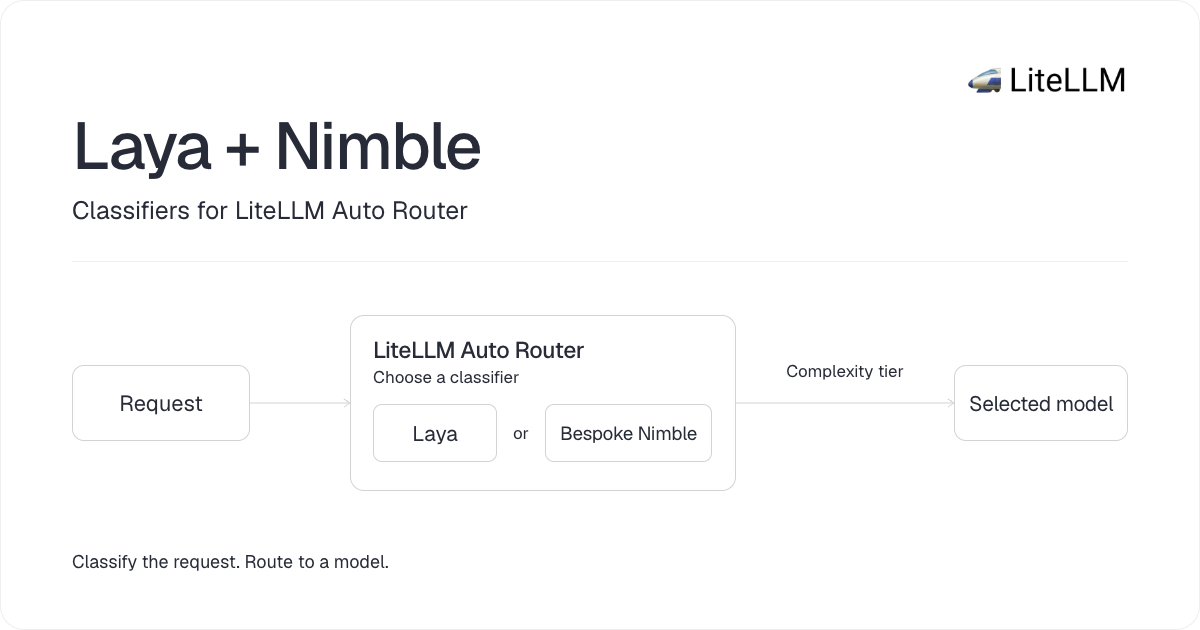
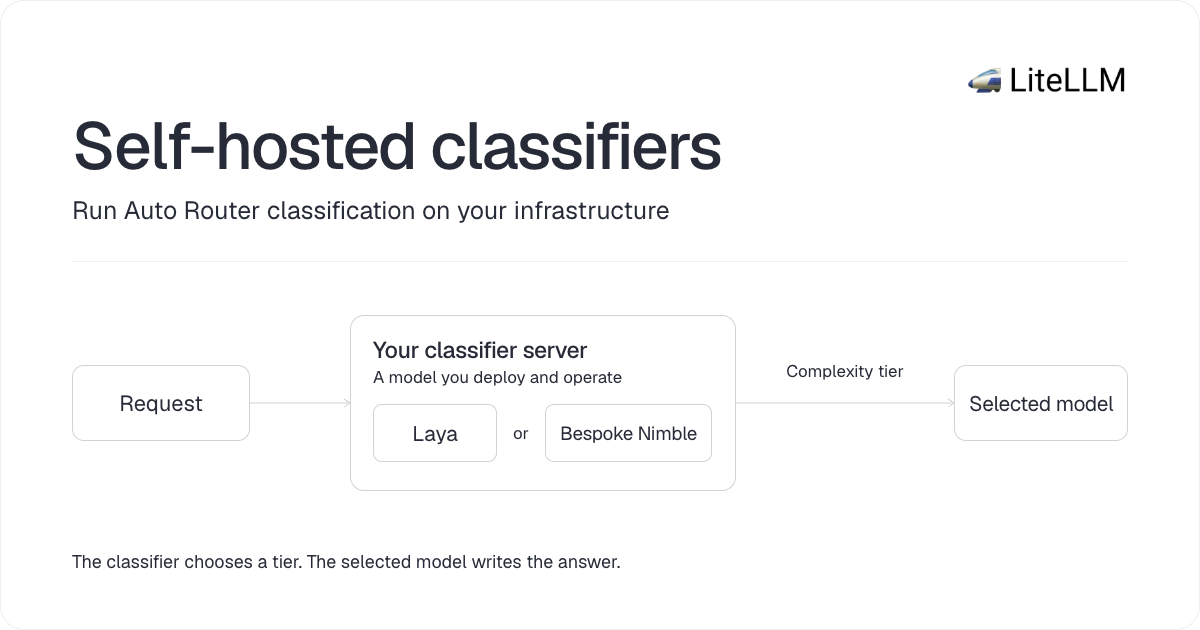
docs: focus classifier launch on self-hosting

Changed region(s): [[0.0617, 0.181, 0.6167, 0.3619], [0.3083, 0.5429, 0.5242, 0.6333], [0.0617, 0.8746, 0.5242, 0.9048]]

diff --git a/docs/auto_router/decision_classifiers.md b/docs/auto_router/decision_classifiers.md
@@ -1,18 +1,38 @@
 ---
-title: OSS classifiers
-sidebar_label: Jev, Nimble and Laya
-description: Configure the Auto Router's OSS Classifier with hosted Jev or self-hosted Nimble and Laya.
+title: Self-hosted classifiers
+sidebar_label: Self-hosted classifiers
+description: Run Auto Router classification on your own infrastructure with Laya or Bespoke Nimble. Configure the server, request context, routing tiers, and fallback behavior.
 ---
 
-Use Jev, Nimble or Laya to choose which model answers each request. The classifier picks a complexity tier; the Auto Router then calls a model configured for that tier. Clients keep using one router model name through the normal chat completions API.
+Run the model that makes your routing decisions on infrastructure you control. Deploy a classifier server, connect it to LiteLLM, and map complexity tiers to your completion models. The classifier chooses a tier for each request; the Auto Router calls a model in that tier to generate the answer. Clients keep using one router model name through the chat completions API.
 
-Jev is available through TypeSafe's hosted API. Nimble and Laya are open models you can run on your own infrastructure. All three use `classifier_type: oss_classifier`, with the provider selected inside `opensource_classifier_config`.
+**Laya and Bespoke Nimble are the supported self-hosted classifier options.** Jev uses TypeSafe's hosted API and shares the same configuration flow. Select **OSS Classifier** in the dashboard, or use `classifier_type: oss_classifier` with a provider inside `opensource_classifier_config`.
+
+## What you host
+
+Deploy the classifier as a separate service reachable from the gateway. LiteLLM calls its HTTP API; selecting a classifier in the dashboard does not install or start its model server.
+
+| Component | Role | Where it runs |
+| --- | --- | --- |
+| LiteLLM gateway | Receives the client request, asks for a tier, then routes the completion | Your gateway deployment |
+| Classifier server | Runs Laya or Nimble inference and returns the tier choice | A server you deploy and operate |
+| Completion model | Generates the answer after routing | Your configured hosted provider or self-hosted model endpoint |
+
+To keep classification traffic inside your network, deploy the classifier there and configure an internal base URL reachable from the gateway. You manage the checkpoint, inference capacity, authentication, and server availability. Self-hosting has compute costs even when the model has no hosted inference fee.
+
+### Request context and data flow
+
+The classifier receives the current user request, selected system text, and any configured prior-turn context, along with the tier criteria. Set `classifier_context_window_size: 0` to omit prior turns; the current request and selected system text still reach the classifier. The YAML example below uses this setting.
+
+The completion model still receives the request needed to generate the answer. Hosting the classifier yourself does not change where that completion runs. See the [classifier context reference](/docs/proxy/auto_routing) for history-window and character-budget settings.
+
+## Choose a classifier
 
 | Classifier | Where it runs | Classifier model | `opensource_classifier_config.provider` |
 | --- | --- | --- | --- |
-| [Jev](https://docs.typesafe.ai/) | TypeSafe's hosted API | `jev-latest` | `jev` |
-| [Bespoke Nimble](https://github.com/bespokelabsai/nimble) | Self-hosted System One server | `nimble-latest`, `nimble` (Ollama) or `bespokelabs/Bespoke-Nimble-9B` | `bespoke` |
 | [Laya](https://github.com/NandhaKishorM/laya) | Self-hosted | `english`, `multilingual` or `typed-decisions` | `laya` |
+| [Bespoke Nimble](https://github.com/bespokelabsai/nimble) | Self-hosted System One server | `nimble-latest`, `nimble` (Ollama) or `bespokelabs/Bespoke-Nimble-9B` | `bespoke` |
+| [Jev](https://docs.typesafe.ai/) | TypeSafe's hosted API | `jev-latest` | `jev` |
 
 All three use the System One decision protocol. LiteLLM sends a `choice` question describing your tiers to `POST /v1/systemone`. Set `api_base` to the server's base URL without `/v1/systemone`; an endpoint that only exposes `/v1/evaluate` or chat completions is not sufficient.
 
@@ -24,16 +44,160 @@ Existing Jev-compatible configurations can keep `classifier_type: jev` and `jev_
 
 :::
 
+## Start a classifier server
+
+Choose one of the self-hosted options below, or use [Jev's hosted API](#jev-hosted-typesafe-api). The local examples run the gateway and classifier on the same machine, in separate processes.
+
+### Laya: self-hosted HTTP server
+
+Install Laya in a separate Python environment from LiteLLM and start its English checkpoint using the [HTTP server](https://github.com/NandhaKishorM/laya/blob/main/docs/http-api.md):
+
+```bash
+python -m venv .venv-laya
+source .venv-laya/bin/activate
+python -m pip install 'laya[serve]==0.3.21'
+LAYA_HOST=127.0.0.1 LAYA_PORT=8000 LAYA_MODELS=english laya-serve
+```
+
+Leave this process running. In another terminal, check liveness:
+
+```bash
+curl --fail-with-body http://127.0.0.1:8000/health
+```
+
+A health response confirms the server is running. Use the [decision request below](#verify-the-classifier-server) to check that inference works too.
+
+In the environment that will run the gateway, set:
+
+```bash
+export LAYA_API_BASE="http://127.0.0.1:8000"
+```
+
+Use this classifier block in the [complete router configuration](#configure-the-router):
+
+```yaml
+opensource_classifier_config:
+  provider: laya
+  model: english
+  timeout_ms: 15000
+```
+
+For another checkpoint, change `LAYA_MODELS` and the router's `model` to `multilingual` or `typed-decisions`. To require bearer authentication, set the same `LAYA_API_KEY` secret in both the server and gateway environments before starting them.
+
+For container deployments, follow Laya's [Docker quickstart](https://github.com/NandhaKishorM/laya/blob/main/docs/docker.md). The [HTTP server reference](https://github.com/NandhaKishorM/laya/blob/main/docs/http-api.md) covers preloading, device selection, and concurrency limits.
+
+### Nimble: self-hosted System One server
+
+Install [Ollama](https://ollama.com/download) 0.35 or later, as required by its [Nimble model](https://ollama.com/library/nimble). If Ollama is not already running, start it in a separate terminal:
+
+```bash
+ollama serve
+```
+
+Leave the server running. In another terminal, download Nimble:
+
+```bash
+ollama pull nimble
+```
+
+In the environment that will run the gateway, set:
+
+```bash
+export BESPOKE_API_BASE="http://127.0.0.1:11434"
+```
+
+Use this classifier block in the [complete router configuration](#configure-the-router):
+
+```yaml
+opensource_classifier_config:
+  provider: bespoke
+  model: nimble
+  timeout_ms: 30000
+```
+
+Ollama exposes Nimble at `/v1/systemone` with the model name `nimble`. Verify it with the [decision request below](#verify-the-classifier-server). `BESPOKE_API_KEY` is unnecessary for local Ollama; setting a gateway key does not enable authentication on the server.
+
+For a GPU deployment on Modal, follow Bespoke's [System One deployment guide](https://github.com/bespokelabsai/nimble/blob/main/docs/MODAL_SERVING.md). Set `BESPOKE_API_BASE` to your deployment's URL and choose the name it serves, such as `nimble-latest` or `bespokelabs/Bespoke-Nimble-9B`. The `bespoke` provider is separate from LiteLLM's Nimble search integration.
+
+The Modal recipe publishes an unauthenticated endpoint by default. Its [private mode](https://github.com/bespokelabsai/nimble/blob/main/deploy/setup_credentials.py) uses `Modal-Key` and `Modal-Secret` headers. LiteLLM's classifier bearer-key setting cannot supply that pair directly; a proxy must handle those headers if you use private mode.
+
+### Connect across hosts or containers
+
+`127.0.0.1` and `localhost` refer to the gateway's own host or container. When the classifier runs elsewhere, use a hostname reachable from the gateway, such as `http://laya-server:8000` or `http://nimble-server:11434` for an Ollama service.
+
+The classifier must also listen on a reachable interface. Set `LAYA_HOST=0.0.0.0` for Laya, or configure Ollama's [`OLLAMA_HOST`](https://docs.ollama.com/faq#how-do-i-configure-ollama-server) before starting its server. Keep the service on your intended private network. If you expose Ollama through a reverse proxy, configure authentication there; Ollama's local API does not enforce the gateway's bearer key.
+
+For a server that accepts bearer authentication, set its matching `LAYA_API_KEY` or `BESPOKE_API_KEY` in the gateway environment. LiteLLM sends that credential to the classifier.
+
+### Verify the classifier server
+
+Run this check from the gateway host or container, before configuring routing. Choose the connection variables for **Laya**:
+
+```bash
+CLASSIFIER_API_BASE="$LAYA_API_BASE"
+CLASSIFIER_MODEL="english"
+CLASSIFIER_API_KEY="${LAYA_API_KEY:-}"
+```
+
+Or choose **Nimble on Ollama**:
+
+```bash
+CLASSIFIER_API_BASE="$BESPOKE_API_BASE"
+CLASSIFIER_MODEL="nimble"
+CLASSIFIER_API_KEY="${BESPOKE_API_KEY:-}"
+```
+
+Then send a decision request directly to that server:
+
+```bash
+curl --fail-with-body "$CLASSIFIER_API_BASE/v1/systemone" \
+  -H 'Content-Type: application/json' \
+  -H "Authorization: Bearer $CLASSIFIER_API_KEY" \
+  --data-binary @- <<JSON
+{
+  "model": "$CLASSIFIER_MODEL",
+  "state": "Summarize this short email in one sentence.",
+  "questions": {
+    "tier": {
+      "type": "choice",
+      "instructions": "Choose the complexity tier for this request.",
+      "criteria": {
+        "SIMPLE": "Short, routine requests with no multi-step reasoning.",
+        "COMPLEX": "Requests that require analysis across multiple steps."
+      }
+    }
+  }
+}
+JSON
+```
+
+A successful response includes `answers.tier.choice` with one of the supplied choices. This checks reachability, the model name, credentials, and inference without involving a completion model. The two-choice question is a setup check; Auto Router supplies its own tier criteria when routing. Warm the model before measuring latency, then tune the classifier timeout for your server.
+
+### Jev: hosted TypeSafe API
+
+To use the hosted option, set `TYPESAFE_API_KEY` in the gateway's environment using your secret manager and use this classifier block in the [complete router configuration](#configure-the-router):
+
+```yaml
+opensource_classifier_config:
+  provider: jev
+  model: jev-latest
+  timeout_ms: 3000
+```
+
+`provider: jev` uses the TypeSafe transport and environment variables. `TYPESAFE_API_BASE` is optional and defaults to `https://api.typesafe.ai`.
+
+For a router-specific endpoint, supply both `api_base` and its matching `api_key` inside `opensource_classifier_config`. An explicit endpoint does not inherit the TypeSafe environment key. The model, timeout, instructions and circuit-breaker fields follow the [Jev reference](/docs/proxy/auto_routing#jev-classifier), whose examples retain the names supported by released builds.
+
 ## Configure from the dashboard
 
-First start a [Nimble](#nimble-self-hosted-system-one-server) or [Laya](#laya-self-hosted-http-server) server and set its connection variables on the gateway. The dashboard selects the classifier; it does not deploy the classifier server.
+After starting and verifying your classifier server, set its connection variables on the gateway:
 
 | Dashboard provider | Gateway base URL variable | Optional gateway bearer-key variable | Classifier Model |
 | --- | --- | --- | --- |
 | **Laya** | `LAYA_API_BASE` | `LAYA_API_KEY` | `english`, `multilingual` or `typed-decisions` |
 | **Bespoke Nimble** | `BESPOKE_API_BASE` | `BESPOKE_API_KEY` | `nimble-latest`, `nimble` or `bespokelabs/Bespoke-Nimble-9B` |
 
-Set each base URL to the classifier server's root, for example `http://laya-server:8000` or `http://nimble-server:8000`. LiteLLM appends `/v1/systemone`. If the server requires a bearer key, configure its matching key in the gateway environment. Restart the gateway after changing its environment.
+Set each base URL to the classifier server's root. LiteLLM appends `/v1/systemone`. Restart the gateway after changing its environment.
 
 1. Open **Models + Endpoints → Auto Router** and create or edit a router.
 2. Under **What classifies your requests?**, select **OSS Classifier**. Under **OSS provider**, choose **Laya** or **Bespoke Nimble**.
@@ -43,11 +207,11 @@ Set each base URL to the classifier server's root, for example `http://laya-serv
 
 Built-in OSS classification uses the shipped tier criteria and is available without a LiteLLM license. Custom instructions and custom tiers follow the dashboard's displayed allowance.
 
-Administrators can configure connection overrides through the management API. The dashboard edits model and classifier options while the gateway owns the connection. Saving the same provider preserves its stored connection; changing providers drops the previous provider's endpoint and key. Team members cannot submit endpoint or credential overrides through the management API.
+Administrators can configure `api_base` and `api_key` overrides through the management API. An explicit `api_base` does not inherit the environment key; supply its matching `api_key` when the server requires one. The dashboard edits model and classifier options while the gateway owns the connection. Saving the same provider preserves its stored connection; changing providers drops the previous provider's endpoint and key. Team members cannot submit endpoint or credential overrides through the management API.
 
 ## Configure the router in YAML {#configure-the-router}
 
-Start with this complete configuration, then choose the classifier connection below. `small-solver` and `large-solver` are public deployment names; replace their underlying models with models your gateway can access:
+This complete example uses a self-hosted Laya classifier. Start the [Laya server](#laya-self-hosted-http-server) and set `LAYA_API_BASE` on the gateway first. To use Nimble, replace the classifier block with the [Nimble configuration](#nimble-self-hosted-system-one-server). `small-solver` and `large-solver` are public deployment names; replace their underlying models with models your gateway can access:
 
 ```yaml title="config.yaml"
 model_list:
@@ -66,9 +230,9 @@ model_list:
       complexity_router_config:
         classifier_type: oss_classifier
         opensource_classifier_config:
-          provider: jev
-          model: jev-latest
-          timeout_ms: 3000
+          provider: laya
+          model: english
+          timeout_ms: 15000
         tiers:
           SIMPLE: small-solver
           MEDIUM: small-solver
@@ -79,67 +243,6 @@ model_list:
 ```
 
 This example routes classifier failures to `large-solver` and sends no prior conversation turns to the classifier. The current request and selected system text are still sent. The default fallback, when omitted, is `heuristic`; the default history window is three prior user turns within an 8,000-character prior-turn budget.
-
-### Jev: hosted TypeSafe API
-
-Set `TYPESAFE_API_KEY` in the gateway's environment using your secret manager. Leave the example's `opensource_classifier_config` unchanged. `provider: jev` still uses the TypeSafe transport and environment variables. `TYPESAFE_API_BASE` is optional and defaults to `https://api.typesafe.ai`.
-
-For a router-specific endpoint, supply both `api_base` and its matching `api_key` inside `opensource_classifier_config`. An explicit endpoint does not inherit the TypeSafe environment key. The model, timeout, instructions and circuit-breaker fields follow the [Jev reference](/docs/proxy/auto_routing#jev-classifier), whose examples retain the names supported by released builds.
-
-### Nimble: self-hosted System One server
-
-Deploy Bespoke's [System One server](https://github.com/bespokelabsai/nimble/blob/main/docs/MODAL_SERVING.md) with the [published Nimble checkpoint](https://github.com/bespokelabsai/nimble#quickstart), or run `ollama pull nimble` on [Ollama](https://ollama.com/library/nimble) 0.35 or later, which serves the same endpoint at `http://localhost:11434` under the model name `nimble`. Use a server you control; the public demo's availability and authentication can change.
-
-Set the server's reachable base URL in the gateway process:
-
-```bash
-export BESPOKE_API_BASE="http://nimble-server:8000"
-```
-
-Replace the example's `opensource_classifier_config` with:
-
-```yaml
-opensource_classifier_config:
-  provider: bespoke
-  model: nimble-latest
-  timeout_ms: 30000
-```
-
-The server must accept `POST /v1/systemone` with `nimble-latest`, `nimble` or `bespokelabs/Bespoke-Nimble-9B`; set `model` to the name your server answers to, so `nimble` for Ollama. For Ollama on the gateway's host, use `BESPOKE_API_BASE="http://localhost:11434"` instead of the example's port `8000`. An OpenAI-compatible chat endpoint alone is insufficient. The `bespoke` provider is separate from LiteLLM's unrelated Nimble search integration.
-
-`BESPOKE_API_KEY` is optional and sends a bearer credential to `BESPOKE_API_BASE`. An administrator can instead configure `api_base` and optional `api_key` on this router. An explicit endpoint without a key connects without authentication and never inherits the environment key. Warm the model before measuring latency; adjust the timeout for your server.
-
-### Laya: self-hosted HTTP server
-
-Install Laya in a separate environment from LiteLLM and start the English checkpoint:
-
-```bash
-python -m venv .venv-laya
-source .venv-laya/bin/activate
-python -m pip install 'laya[serve]==0.3.21'
-LAYA_HOST=127.0.0.1 LAYA_PORT=8000 LAYA_MODELS=english laya-serve
-```
-
-In the gateway process, set its reachable server URL:
-
-```bash
-export LAYA_API_BASE="http://127.0.0.1:8000"
-```
-
-Replace the example's `opensource_classifier_config` with this block:
-
-```yaml
-opensource_classifier_config:
-  provider: laya
-  model: english
-  timeout_ms: 15000
-```
-
-Choose `english`, `multilingual` or `typed-decisions` explicitly. When `api_base` is omitted, the gateway uses `LAYA_API_BASE` and optional `LAYA_API_KEY`. To require authentication, configure the same key on the Laya server and gateway.
-
-An administrator can instead set `api_base` and optional `api_key` on this router. An explicit Laya endpoint without a key connects without authentication and does not inherit the environment key. See the [Laya HTTP guide](https://github.com/NandhaKishorM/laya/blob/main/docs/http-api.md) for server options.
-
-For either self-hosted server, `localhost` refers to the gateway's own host or container. Use a hostname reachable from the gateway when the classifier runs elsewhere.
 
 ## Test routing and send a request
 
@@ -196,7 +299,7 @@ curl http://localhost:4000/laya/v1/systemone \
   }'
 ```
 
-Every native request must explicitly choose `english`, `multilingual` or `typed-decisions`, with permission for the corresponding `laya/<checkpoint>` model. Unknown names and automatic selection are rejected. The response preserves Laya's `answers`, `usage` and `routing` fields. Both native routes support System One requests only; `/v1/evaluate`, chat completions and streaming are not exposed. Nimble preserves its native `answers` and `usage` response.
+Every native Laya request must explicitly choose `english`, `multilingual` or `typed-decisions`, with permission for the corresponding `laya/<checkpoint>` model. Unknown names and automatic selection are rejected. The response preserves Laya's `answers`, `usage` and `routing` fields. Both native routes support System One requests only; `/v1/evaluate`, chat completions and streaming are not exposed. Nimble preserves its native `answers` and `usage` response.
 
 ## Evaluate quality and cost
 
@@ -220,4 +323,4 @@ opensource_classifier_config:
 
 The new backend still accepts `classifier_type: jev`, `jev_classifier_config` and the legacy `provider: typesafe` value for existing YAML and saved routers. Supply only one classifier configuration block. Model-management creates and updates that include the classifier configuration write the canonical names; an update that leaves the configuration untouched preserves the saved value.
 
-Existing configurations that retain `provider: jev` continue using the TypeSafe transport and environment variables. To migrate a compatible Nimble System One server to `provider: bespoke`, select `nimble-latest`, configure `BESPOKE_API_BASE` and optional `BESPOKE_API_KEY`, and grant access to `bespoke/nimble-latest`. The provider change clears saved Jev connection overrides; administrators must explicitly resupply any intended override. New calls use `bespoke/<model>` in logs, while `cause: jev_classifier` stays unchanged
+Existing configurations that retain `provider: jev` continue using the TypeSafe transport and environment variables. To migrate a compatible Nimble System One server to `provider: bespoke`, select `nimble-latest`, configure `BESPOKE_API_BASE` and optional `BESPOKE_API_KEY`, and grant access to `bespoke/nimble-latest`. The provider change clears saved Jev connection overrides; administrators must explicitly resupply any intended override. New calls use `bespoke/<model>` in logs, while `cause: jev_classifier` stays unchanged.

diff --git a/blog/laya_nimble_classifiers/index.md b/blog/laya_nimble_classifiers/index.md
@@ -1,10 +1,10 @@
 ---
 slug: laya-nimble-classifiers
-title: "Laya and Nimble on LiteLLM Auto Router"
+title: "Self-hosted classifiers for LiteLLM Auto Router"
 date: 2026-10-02T12:00:00
 authors:
   - tin
-description: "Use Laya or Bespoke Nimble to classify requests on your own infrastructure, then let LiteLLM Auto Router call the model configured for that tier."
+description: "Run the model that makes your routing decisions on your own infrastructure. LiteLLM Auto Router now supports self-hosted Laya and Bespoke Nimble classifiers."
 image: ./cover.png
 tags: [auto-router, product, ai-gateway]
 hide_table_of_contents: false
@@ -12,34 +12,40 @@ hide_table_of_contents: false
 
 <picture>
   <source media="(prefers-reduced-motion: reduce)" srcSet={require('./cover.png').default} />
-  <img src={require('./cover.gif').default} width="1200" height="630" alt="Choose Laya or Bespoke Nimble to classify a request, then let LiteLLM Auto Router send it to the model configured for the selected tier. Illustrated routing examples." />
+  <img src={require('./cover.gif').default} width="1200" height="630" alt="Self-hosted classification for LiteLLM Auto Router: a classifier server on your infrastructure chooses a tier, then the selected completion model answers the request. Laya and Bespoke Nimble are supported classifier options." />
 </picture>
 
-We've added **Laya and Bespoke Nimble as classifiers for LiteLLM Auto Router**. Run either on your own infrastructure, choose it in the dashboard, and route requests to the models you configure for each complexity tier. Both join Jev in the **OSS Classifier** selector.
+You can now **run Auto Router's classifier on your own infrastructure**. Deploy a decision model alongside your gateway, let it choose a complexity tier for each request, and have LiteLLM call the completion model you assign to that tier.
 
-Your application keeps calling one router model name through `/v1/chat/completions`.
+We've added support for two self-hosted options, **Laya** and **Bespoke Nimble**. You control the classifier server, its capacity, and where it receives request context. Your application keeps calling one router model name through `/v1/chat/completions`.
 
 {/* truncate */}
 
-## Choose a model for each request
+## Why self-host the classifier?
 
-An agent might summarize a short email in one turn and debug a failure across several services in the next. You can send both to the same model, or define routing rules that reserve a larger model for the work that needs it.
+An agent might summarize a short email in one turn and debug a failure across several services in the next. With Auto Router, you can assign smaller models to simpler requests and larger models to more demanding work. A classifier makes that routing decision from the request context and your tier criteria.
 
-Auto Router lets you map complexity tiers to your gateway's model deployments. With Laya or Nimble, you can also run the classifier that selects those tiers on your own infrastructure.
+Self-hosting gives you control over that classification call. You can deploy the classifier inside your network, choose the checkpoint you serve, and provision its inference capacity alongside your gateway. Your team operates the server and pays for its compute.
 
-## Run the classifier where you run the gateway
+The selected completion model still receives the request to generate the answer. You can use hosted or self-hosted completion models; that choice is separate from where you run the classifier.
 
-[Laya](https://github.com/NandhaKishorM/laya) and [Bespoke Nimble](https://github.com/bespokelabsai/nimble) are decision models. For Auto Router, they choose from the supplied tiers. The completion model you assign to the selected tier generates the answer.
+## How a request moves through the gateway
 
-LiteLLM sends the request context and tier criteria to your classifier's `/v1/systemone` endpoint, reads its choice, and calls the corresponding model. You control the classifier endpoint, timeout, and fallback behavior. Self-hosting keeps the classification call on infrastructure you control; the selected completion model still receives the request.
+Your application sends a request to the Auto Router. LiteLLM sends the classification context and tier criteria to your classifier server, reads its chosen tier, then calls a completion model from that tier. You configure the timeout and the fallback to use if classification fails.
 
-For example, you can map `SIMPLE` and `MEDIUM` to a smaller model, and `COMPLEX` and `REASONING` to a larger one. Evaluate those choices on your own prompts before changing production traffic: routing quality and total cost depend on your classifier, model pool, and workload.
+For example, you can map `SIMPLE` and `MEDIUM` to a smaller model, and `COMPLEX` and `REASONING` to a larger one. Use **Test Routing** to see the selected tier and model without making a completion call, then evaluate answer quality, latency, and total cost on your own prompts.
+
+## Choose a self-hosted classifier
+
+[Laya](https://github.com/NandhaKishorM/laya) and [Bespoke Nimble](https://github.com/bespokelabsai/nimble) are decision models that choose from supplied options. LiteLLM uses them to select a tier. Both expose the System One API through a server you deploy; Nimble also runs through Ollama's System One endpoint.
+
+In the dashboard, both appear under **OSS Classifier**, alongside the existing hosted Jev option. The [configuration guide](/docs/auto_router/decision_classifiers) covers the supported checkpoints, server setup, credentials, and the request context sent for classification.
 
 ## Configure it in the dashboard
 
 Set `LAYA_API_BASE` or `BESPOKE_API_BASE` on the gateway to your classifier server's base URL. In **Models + Endpoints → Auto Router**, create or edit a router, select **OSS Classifier**, then choose **Laya** or **Bespoke Nimble**.
 
-Choose the classifier model, assign your completion models to tiers, and use **Test Routing** to inspect the selected tier and model before saving. Built-in OSS classification is available without a LiteLLM license.
+Choose the classifier model, assign your completion models to tiers, test, and save the router. Built-in OSS classification is available without a LiteLLM license. Deploy and start the classifier server before selecting it in the dashboard.
 
 You can also configure the same router in YAML. Inside `complexity_router_config`, select Laya with:
 
